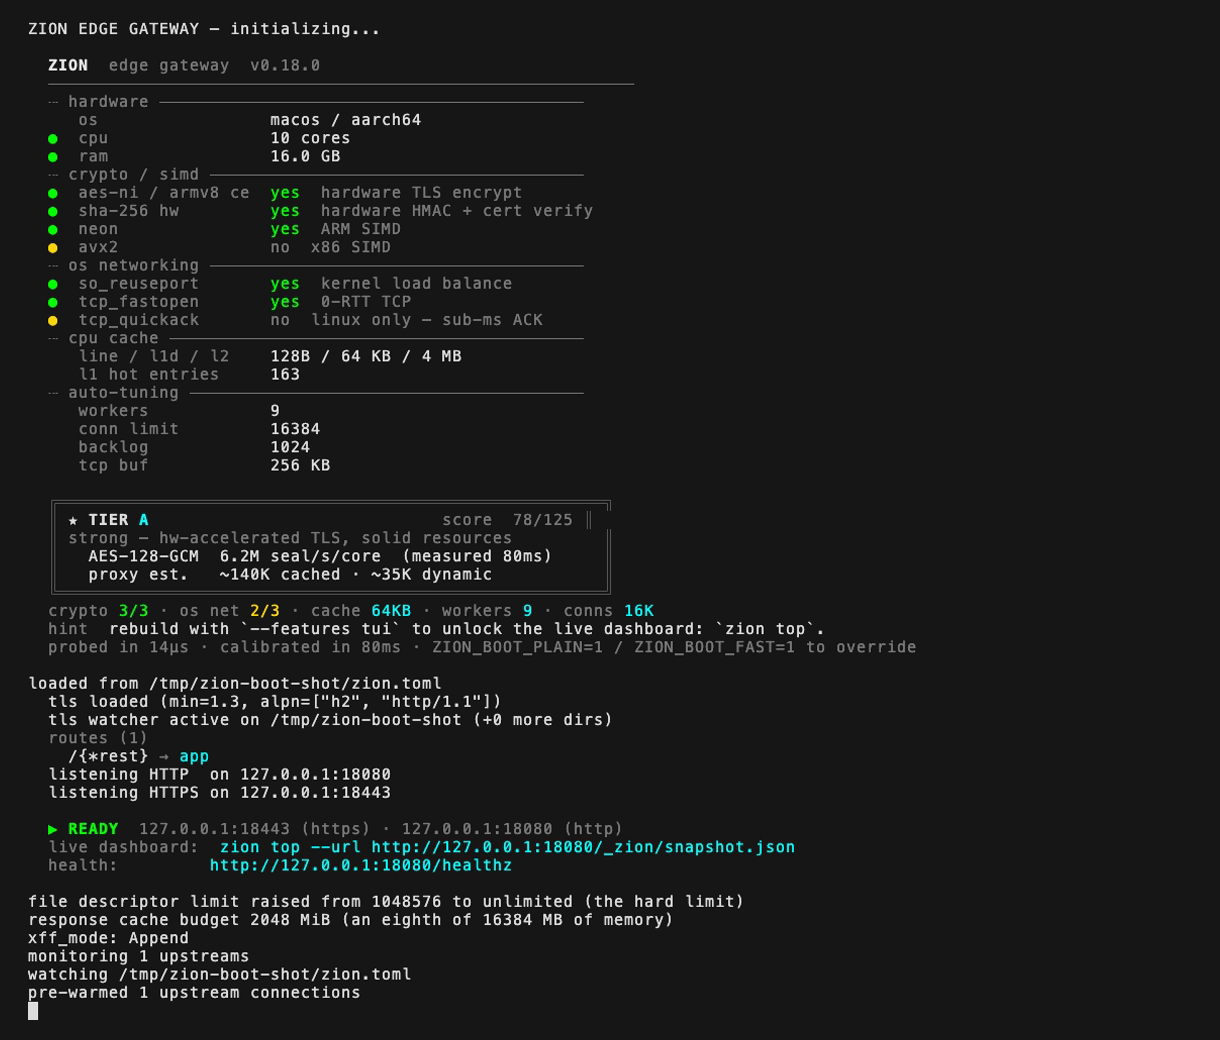
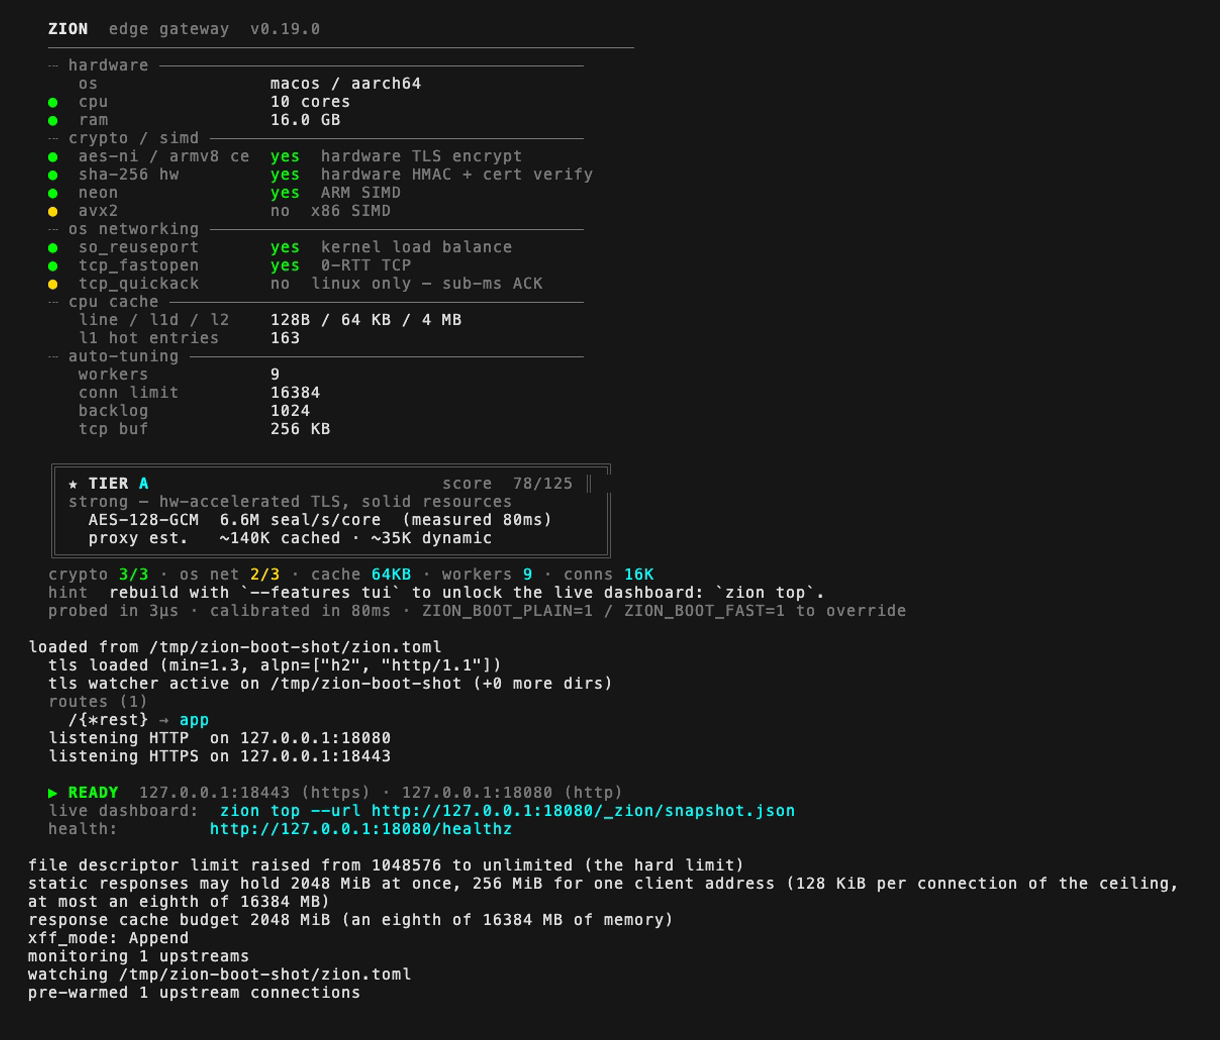
chore(release): v0.19.0 (#827)
Bump the version to 0.19.0 across Cargo.toml/lock, the Helm chart, README,
SECURITY, the docs and the issue template (version-sync clean), and cut the
CHANGELOG [0.19.0] section: a summary of the security fix since v0.18.0 (what
static responses hold for a client that does not read is bounded per
connection, per client address and for the whole process, and send_stall_secs
resets a stream or closes an HTTP/1.1 connection whose client takes nothing,
#822), the three upgrade notes and the Fixed entry kept as they were, and a
Documentation entry for the README polish (#824). The README boot screenshot
is regenerated from this tree and shows v0.19.0.

Changed region(s): [[0.0311, 0.0, 0.9656, 0.8923], [0.0, 0.9538, 0.0311, 0.9846]]

diff --git a/CHANGELOG.md b/CHANGELOG.md
@@ -4,6 +4,10 @@ All notable changes to Zion Edge Gateway are documented here.
 
 ## [Unreleased]
 
+## [0.19.0] - 2026-11-26
+
+**Security fix: a client that does not read can no longer make zion hold more than the host has.** A client that withheld HTTP/2 or HTTP/3 flow control, or stopped reading an HTTP/1.1 response, kept the response's open file and buffers for as long as it kept the connection, and one address could open enough connections to hold more memory and descriptors than the host has. Static responses now take what they hold from a budget per connection, per client address and for the whole process, and `send_stall_secs` (default 300 s) resets a stream, or closes an HTTP/1.1 connection, whose client takes nothing for that long. Three upgrade notes below.
+
 ### Upgrade notes
 
 - **`[server] send_stall_secs` (new, default `300`, `0` = off) resets an HTTP/2 or HTTP/3 stream, and closes an HTTP/1.1 connection, whose response has waited that long for its client to take a piece of it**: a client that leaves a response untaken for 300 s (a player paused with a full buffer, on a static or a proxied route) now has that stream reset or that connection closed. Raise it for clients that pause longer, or set `0` for the previous behaviour.
@@ -13,6 +17,10 @@ All notable changes to Zion Edge Gateway are documented here.
 ### Fixed
 
 - **A client that withholds HTTP/2 or HTTP/3 flow control, or does not read over HTTP/1.1, can no longer make zion hold more open files and static data than the host has, on one connection or on many, or hold them for longer than `send_stall_secs`** (security). hyper waits for a client's window with the next chunk of a response in hand and puts no deadline on the wait, and the keep-alive `PING` does not end it: a client that answers PINGs is alive. In v0.18.0 one HTTP/2 connection that opened 128 streams for a 2 MiB static file and no window held 128 descriptors to it, 128 requests for a 576 KiB file grew the server from 5 to 87 MiB, and one address may open an eighth of the connection ceiling (2048 connections on a 16 GiB host), over QUIC any number. Now a static `GET` takes a slot of its HTTP/2 or HTTP/3 connection before its file is opened (one of eight for a streamed file, its length out of 4.5 MiB for one read whole, none on a `trusted_proxies` connection), and on every protocol takes what it may hold from its client address's share of a budget for the whole process (128 KiB per connection of the ceiling, at most an eighth of memory; behind a trusted proxy the address is the client the request resolves to); a request that finds no slot waits holding nothing, at most 10 s for the share or the budget, then `503`. A stream whose response has had a piece waiting `send_stall_secs` for its client is reset (`RST_STREAM(CANCEL)`, `H3_REQUEST_CANCELLED`), an HTTP/1.1 connection closed, and what it held is freed, counted in `zion_streams_stalled_total`; bodies are handed over in pieces of at most 64 KiB, so the deadline counts per 64 KiB the client takes whatever the size of the body's chunks, and on HTTP/2 a static response ends only once its last piece has left, so a small file whose client never reads is reset too. Waits for the budget are counted in `zion_static_budget_waited_total`. Measured on the real binary (debug build, macOS, one run each) against v0.18.0: one connection, 128 requests for a 2 MiB file, windows closed: 8 descriptors instead of 128; 128 requests for a 576 KiB file: 5 to 22 MiB instead of 5 to 87, and with each window opened by one byte 5 to 22 MiB and 8 responses begun instead of 5 to 90 MiB and 128; through a brotli route 12 to 41-85 MiB over three runs and 8 begun instead of 12 to 360 MiB and 128; a `precompressed = true` route, 8 descriptors instead of 64; one address over 16 HTTP/2 connections with `max_connections = 1024` (a 16 MiB share), 21 descriptors and 5 to 30 MiB instead of 128 and 5 to 97 MiB, the other 107 requests answered `503` 10.1 to 10.8 s in; the same over 16 HTTP/3 connections, 21 descriptors and 5 to 28 MiB instead of 128 and 5 to 80 MiB; over 30 HTTP/1.1 connections, 21 instead of 30; one trusted proxy connection served 100 clients at once and each client's share applied (170 begun in all, the budget, where v0.18.0 began all 240). A batch client that reads no body until 30 responses for a 200 KiB file have begun had 23 reset at the 2 s deadline and the other 7 then served, where without the pieces and the held end none was reset in 7 s and the 7 never began; a 20 KiB file to a one-byte window is reset at 2.06 s; a proxied 768 KiB body sent by its upstream in one write, read 64 KiB every 600 ms, completes in 7.3 s under a 2 s deadline, where handed over in the upstream's chunks it was reset 4.3 s in. Over HTTP/1.1, 21 clients of one address that stop reading a 32 MiB file under `send_stall_secs = 3` are closed at the deadline and a 22nd request from the address waiting for the share gets `200` 3.03 s in (without the deadline, `503` at 11.1 s); a proxied 16 MiB download not read for 4 s is closed after 450,917 bytes; a reader taking 64 KiB every 300 ms gets all of a 2 MiB file in 8.1 s under a 2 s deadline. Every bound is break-tested in `tests/static_memory.rs` and in unit tests. Still open, documented in [Hardening](docs/security/hardening.md#http-2-responses-a-client-does-not-read): proxied routes get the deadline but no cap and no budget; about eight addresses that fill their shares spend the budget, after which static `GET`s from every client get `503` until `send_stall_secs` resets the holders (measured: a ninth client got the 2 responses left and 3 `503`s, and was served again after the resets), where before the host ran out of memory; a ninth large static file on one connection waits, without its headers, until one of the eight is sent or reset (8.20 s behind eight 2 MiB downloads read 64 KiB every 250 ms), and a client that wants nine headers before it reads any body waits for the deadline (2.06 s under 2 s, 10.06 s under 10 s).
+
+### Documentation
+
+- **The README performance figures and badge say they were measured on zion 0.3.2 and have not been re-measured since**, the unmeasured `/healthz` latency claim is removed, the feature list names the slow-client bounds, and the README and the site index use no em dash (#824, #825).
 
 ## [0.18.0] - 2026-11-26
 

diff --git a/docs/security/supply-chain.md b/docs/security/supply-chain.md
@@ -46,8 +46,8 @@ You need the GitHub CLI (`gh >= 2.49`) and `cosign >= 2.2`.
 
 ```bash
 # 1. Download the artifact + SHA256SUMS from the release page.
-gh release download v0.18.0 -R fabriziosalmi/zion \
-    -p 'zion-v0.18.0-x86_64-unknown-linux-musl.tar.gz' \
+gh release download v0.19.0 -R fabriziosalmi/zion \
+    -p 'zion-v0.19.0-x86_64-unknown-linux-musl.tar.gz' \
     -p 'SHA256SUMS' \
     -p 'zion-sbom.cdx.json'
 
@@ -55,7 +55,7 @@ gh release download v0.18.0 -R fabriziosalmi/zion \
 sha256sum --check --ignore-missing SHA256SUMS
 
 # 3. Verify the SLSA build provenance bound to the artifact's hash.
-gh attestation verify zion-v0.18.0-x86_64-unknown-linux-musl.tar.gz \
+gh attestation verify zion-v0.19.0-x86_64-unknown-linux-musl.tar.gz \
     --owner fabriziosalmi
 
 # Step 3 fails if:
@@ -78,7 +78,7 @@ grype zion-sbom.cdx.json
 ## Verifying a container image
 
 ```bash
-IMAGE=ghcr.io/fabriziosalmi/zion:v0.18.0
+IMAGE=ghcr.io/fabriziosalmi/zion:v0.19.0
 
 # 1. Pin to the digest immediately — tags are mutable, digests are not.
 DIGEST=$(crane digest "$IMAGE")
@@ -138,7 +138,7 @@ do not depend on the directory, on where cargo's home is, or on the toolchain's
 components. To rebuild the Linux musl artifact:
 
 ```bash
-git clone --depth 1 --branch v0.18.0 https://github.com/fabriziosalmi/zion && cd zion
+git clone --depth 1 --branch v0.19.0 https://github.com/fabriziosalmi/zion && cd zion
 export SOURCE_DATE_EPOCH=$(git log -1 --pretty=%ct)
 export ZION_GIT_SHA=$(git rev-parse --short=12 HEAD)
 export ZION_COMMIT_DATE=$(git show -s --format=%cd --date=format:%Y-%m-%d HEAD)
@@ -158,12 +158,12 @@ sha256sum target/x86_64-unknown-linux-musl/release/zion
 the one inside the published archive:
 
 ```bash
-tar -xzOf zion-v0.18.0-x86_64-unknown-linux-musl.tar.gz zion | sha256sum
+tar -xzOf zion-v0.19.0-x86_64-unknown-linux-musl.tar.gz zion | sha256sum
 ```
 
 or recreate the archive with the same `tar` flags and compare it against
 `SHA256SUMS`. The toolchain is pinned end to end: Rust 1.88.0, `zig` 0.13.0 and
-`cargo-zigbuild` 0.23.4 (the versions that built v0.18.0; the workflow installs
+`cargo-zigbuild` 0.23.4 (the versions that built v0.19.0; the workflow installs
 exactly these).
 
 **Releases up to 0.12** were built without the remapping, and have no such script.

diff --git a/README.md b/README.md
@@ -321,12 +321,12 @@ Every release is signed and carries SLSA v1.0 build provenance; see
 
 ```bash
 # Binary release (Sigstore-backed provenance via gh CLI)
-gh release download v0.18.0 -R fabriziosalmi/zion -p '*x86_64-unknown-linux-musl*' -p 'SHA256SUMS'
+gh release download v0.19.0 -R fabriziosalmi/zion -p '*x86_64-unknown-linux-musl*' -p 'SHA256SUMS'
 sha256sum --check --ignore-missing SHA256SUMS
-gh attestation verify zion-v0.18.0-x86_64-unknown-linux-musl.tar.gz --owner fabriziosalmi
+gh attestation verify zion-v0.19.0-x86_64-unknown-linux-musl.tar.gz --owner fabriziosalmi
 
 # Container image (cosign keyless)
-cosign verify ghcr.io/fabriziosalmi/zion:v0.18.0 \
+cosign verify ghcr.io/fabriziosalmi/zion:v0.19.0 \
     --certificate-identity-regexp "^https://github.com/fabriziosalmi/zion/\\.github/workflows/release\\.yml@refs/tags/v" \
     --certificate-oidc-issuer "https://token.actions.githubusercontent.com"
 ```

diff --git a/docs/index.md b/docs/index.md
@@ -20,7 +20,7 @@ description: "One auditable Rust binary at the edge: TLS 1.3 termination, a zero
     <aside class="ds-spec">
       <div class="cap">Specification</div>
       <dl>
-        <div class="ds-row"><dt>Version</dt><dd class="tnum">0.18.0</dd></div>
+        <div class="ds-row"><dt>Version</dt><dd class="tnum">0.19.0</dd></div>
         <div class="ds-row"><dt>Language</dt><dd>Rust · MSRV 1.82</dd></div>
         <div class="ds-row"><dt>Binary</dt><dd class="tnum">~4 MB · static</dd></div>
         <div class="ds-row"><dt>TLS proxy</dt><dd class="tnum">108<span class="u">k</span> req/s</dd></div>

diff --git a/.github/ISSUE_TEMPLATE/bug_report.md b/.github/ISSUE_TEMPLATE/bug_report.md
@@ -21,7 +21,7 @@ A clear and concise description of what you expected to happen.
 **Environment (please complete the following information):**
  - OS: [e.g. Linux, macOS]
  - Architecture: [e.g. arm64, amd64]
- - Zion Version: [e.g. 0.18.0]
+ - Zion Version: [e.g. 0.19.0]
 
 **Additional context**
 Add any other context about the problem here (e.g. logs with `RUST_LOG=trace`, upstream backend type like Go/Node).

diff --git a/SECURITY.md b/SECURITY.md
@@ -8,7 +8,7 @@ the current version.
 
 | Version | Supported |
 | ------- | --------- |
-| < 0.18.0 | No |
+| < 0.19.0 | No |
 
 Everything at or above that line is the current release. Stated as a single
 threshold on purpose — the previous wording carried a second, hardcoded row

diff --git a/docs/deploy/hot-reload.md b/docs/deploy/hot-reload.md
@@ -135,7 +135,7 @@ Two surfaces report the reload state:
 
   ```json
   {
-    "version": "0.18.0",
+    "version": "0.19.0",
     "timestamp_ms": 1714425600000,
     "uptime_secs": 3712,
     "config_generation": 5,
